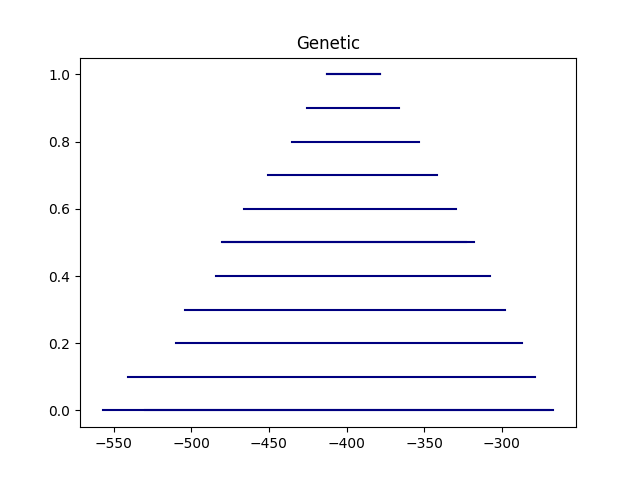
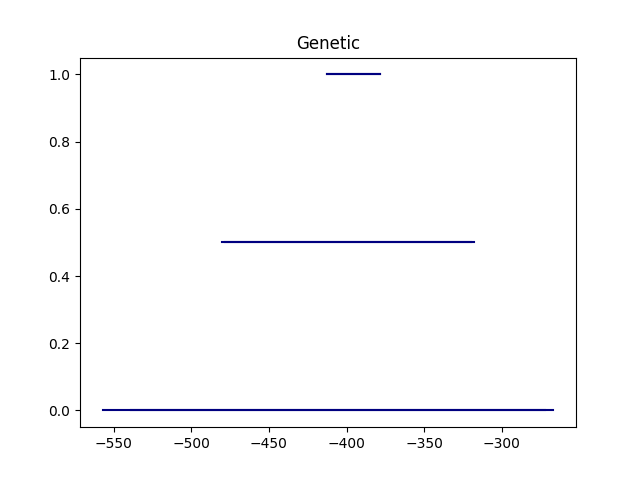
plot für genetic

diff --git a/genetic.py b/genetic.py
@@ -1,10 +1,15 @@
 import numpy as np
 from grundloesung import *
 
-
 def genetic_algorithm(L, b, h1, h2, E, q, k, alpha, n_gen):
     #Anzahl der Individuen (Muss eine Gerade Zahl sein)
     n = 100
+    aufrufe = 0
+    mutation_rate = 0.0005
+
+    #Liste um Konvergenz zu erzwingen:
+    M_max_list = np.zeros((5))
+    M_min_list = np.zeros((5))
 
     def create_gene(fzzy_Gr, alpha):
         low, high = fzzy_Gr.giveIntervall(alpha)
@@ -30,7 +35,7 @@ def genetic_algorithm(L, b, h1, h2, E, q, k, alpha, n_gen):
         return population
 
 
-    def calc_fitness(population, L, b):
+    def calc_fitness(population, L, b, aufrufe):
         rows = population.shape[0]
 
         for i in range(rows):
@@ -41,7 +46,8 @@ def genetic_algorithm(L, b, h1, h2, E, q, k, alpha, n_gen):
             k  = population[i, 4]
 
             population[i, 5] = grundloesung(L, b, h1, h2, E, q, k)
-        return  population
+            aufrufe = aufrufe + 1
+        return  population, aufrufe
 
 
     def crossover(population):
@@ -66,9 +72,8 @@ def genetic_algorithm(L, b, h1, h2, E, q, k, alpha, n_gen):
 
         return population_crossed
 
-    def mutation(population, h1, h2, E, q, k, alpha):
+    def mutation(population, h1, h2, E, q, k, alpha, mutation_rate):
         rows = population.shape[0]
-        mutation_rate = 0.0005
         #diff_rel = (population[-int((rows / 2) + 1), 5] - population[0, 5]) / population[-int((rows / 2) + 1), 5]
         #if diff_rel < mutation_rate:
         #    mutation_rate = diff_rel
@@ -92,14 +97,14 @@ def genetic_algorithm(L, b, h1, h2, E, q, k, alpha, n_gen):
 
 # optimierung nach M_max: ---------------------------------------------------------
     population = create_population(h1, h2, E, q, k, alpha, n)
-    population = calc_fitness(population, L, b)
+    population, aufrufe = calc_fitness(population, L, b, aufrufe)
     population = population[np.argsort(population[:, -1])]
     for j in range(int(n / 5)):
         # index für "obj=0" löscht die schlechteste fitness, mit "obj=-1" löscht man die beste (je nachdem ob man nach Max or Min optimiert
         population = np.delete(population, obj=0, axis=0)
 
     for i in range(n_gen):
-        population = calc_fitness(population, L, b)
+        population, aufrufe = calc_fitness(population, L, b, aufrufe)
         population = population[np.argsort(population[:, -1])]
 
         # Aussortieren der Schlechtesten Indiviuuen
@@ -108,22 +113,39 @@ def genetic_algorithm(L, b, h1, h2, E, q, k, alpha, n_gen):
             # index für "obj=0" löscht die schlechteste fitness, mit "obj=-1" löscht man die beste (je nachdem ob man nach Max or Min optimiert
             population = np.delete(population, obj=0, axis=0)
 
-        population = crossover(population)
-        population = mutation(population, h1, h2, E, q, k, alpha)
+        # Speichern der besten Fitness
+        M_max_list = np.delete(M_max_list, 0)
+        M_max_list = np.append(M_max_list, population[-1, -1])
 
-    population = calc_fitness(population, L, b)
+        # Anpassen der Mutationsrate
+        if j > 5:
+            delta = (np.max(M_max_list) - np.min(M_max_list)) / (np.average(M_max_list))
+            print('------------------')
+            print(population[-1, -1])
+            print(delta)
+            if delta < 2 * mutation_rate:
+                mutation_rate = mutation_rate / 2
+            print(mutation_rate)
+
+            if mutation_rate < 0.000001:
+                break
+
+        population = crossover(population)
+        population = mutation(population, h1, h2, E, q, k, alpha, mutation_rate)
+
+    population, aufrufe = calc_fitness(population, L, b, aufrufe)
     M_max = population[-0, 5]
 
 # optimierung nach M_min: ---------------------------------------------------------
     population = create_population(h1, h2, E, q, k, alpha, n)
-    population = calc_fitness(population, L, b)
+    population, aufrufe = calc_fitness(population, L, b, aufrufe)
     population = population[np.argsort(population[:, -1])]
     for j in range(int(n / 5)):
         # index für "obj=0" löscht die schlechteste fitness, mit "obj=-1" löscht man die beste (je nachdem ob man nach Max or Min optimiert
         population = np.delete(population, obj=-1, axis=0)
 
     for i in range(n_gen):
-        population = calc_fitness(population, L, b)
+        population, aufrufe = calc_fitness(population, L, b, aufrufe)
         population = population[np.argsort(population[:, -1])]
 
         # Aussortieren der Schlechtesten Indiviuuen
@@ -133,12 +155,9 @@ def genetic_algorithm(L, b, h1, h2, E, q, k, alpha, n_gen):
             population = np.delete(population, obj=-1, axis=0)
 
         population = crossover(population)
-        population = mutation(population, h1, h2, E, q, k, alpha)
+        population = mutation(population, h1, h2, E, q, k, alpha, mutation_rate)
 
-    population = calc_fitness(population, L, b)
+    population, aufrufe = calc_fitness(population, L, b, aufrufe)
     M_min = population[0, 5]
 
-
-    return M_max, M_min
-
-#Hurensohn
+    return M_max, M_min, aufrufe

diff --git a/main_FS.py b/main_FS.py
@@ -1,0 +1,39 @@
+import time
+from matplotlib import pyplot as plt
+from genetic import *
+from fuzzy import *
+from grundloesung_Feld import *
+
+
+# Initiierung Fuzzy-Analyse -----------------------------------------------------------------
+# Eingabegrößen aus Aufgabenstellung
+L = 10
+b = 0.2
+h1 = FuzzyTrapez(0.65, 0.7, 0.7, 0.75)
+h2 = FuzzyTrapez(0.48, 0.5, 0.5, 0.52)
+E = FuzzyTrapez(2.05 * (10 ** 8), 2.10 * (10 ** 8), 2.12 * (10 ** 8), 2.15 * (10 ** 8))
+q = FuzzyTrapez(14.0, 17.0, 18.5, 22.0)
+k = FuzzyTrapez(0.8 * (10 ** 4), 1.0 * (10 ** 4), 1.0 * (10 ** 4), 1.4 * (10 ** 4))
+
+# Sicherheitsausgabe
+print('program has started')
+
+# Testen des Darwin-Algorithmus -----------------------------------------------------------------------
+startTime_genetic = time.time()
+#M_max_array = np.zeros((7, 5))
+n_gen = 50
+for alpha in [0.0]:
+    M_max, M_min, aufrufe = genetic_algorithm(L, b, h1, h2, E, q, k, alpha, n_gen)
+    print('M_max Evolutioniert zuuuuuuu:', M_max)
+    print('M_min digitiert zuuuuuuu:', M_min)
+    print(aufrufe)
+    print('----------------')
+    #M_max_array[i, j] = M_max
+
+# Ende Timer und Bildung Differenz
+endTime_genetic = time.time()
+elapsed_time_genetic = endTime_genetic - startTime_genetic
+
+# Ausgabe der benötigten Zeit
+print("---------------------------------------------------------------")
+print('benötigte Zeit:', elapsed_time_genetic)

diff --git a/main.py b/main.py
@@ -60,10 +60,11 @@ plt.savefig("plot_BruteForce.png")
 startTime_genetic = time.time()
 #M_max_array = np.zeros((7, 5))
 n_gen = 50
-for alpha in [0.0, 0.1, 0.2, 0.3, 0.4, 0.5, 0.6, 0.7, 0.8, 0.9, 1]:
-    M_max, M_min = genetic_algorithm(L, b, h1, h2, E, q, k, alpha, n_gen)
+for alpha in [0.0, 0.5, 1]:
+    M_max, M_min, aufrufe = genetic_algorithm(L, b, h1, h2, E, q, k, alpha, n_gen)
     print('M_max Evolutioniert zuuuuuuu:', M_max)
     print('M_min digitiert zuuuuuuu:', M_min)
+    print(aufrufe)
     print('----------------')
     #M_max_array[i, j] = M_max
 
